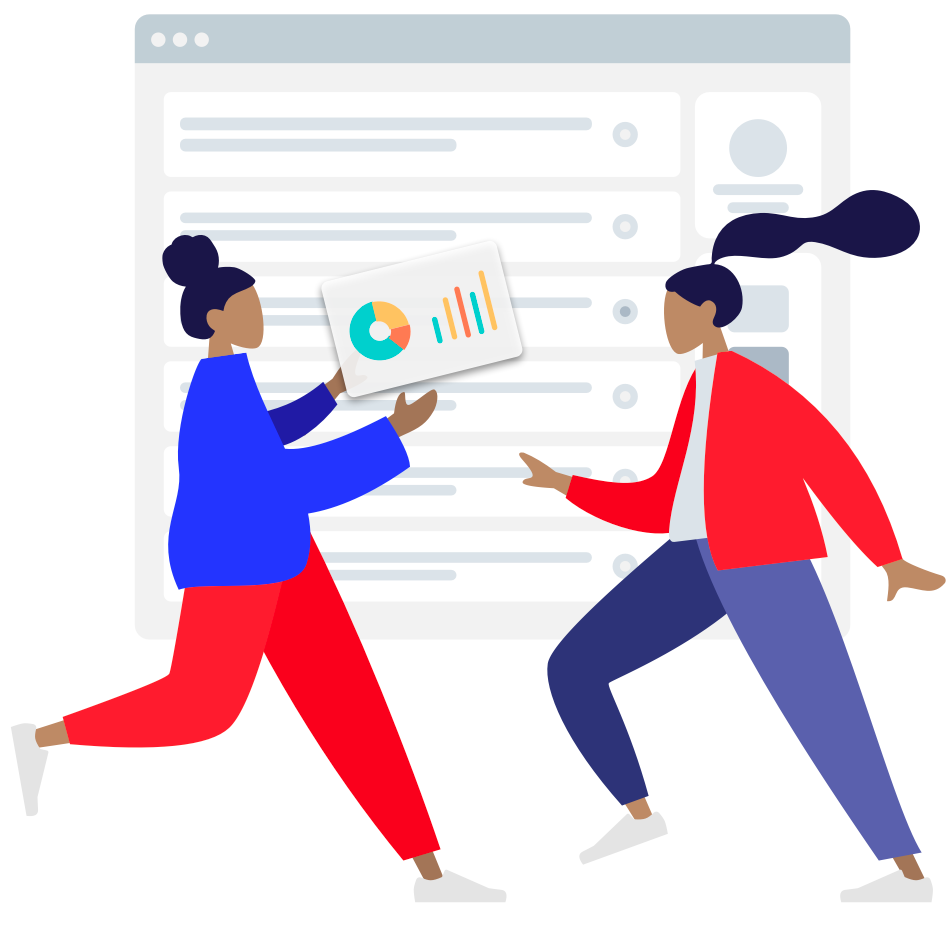
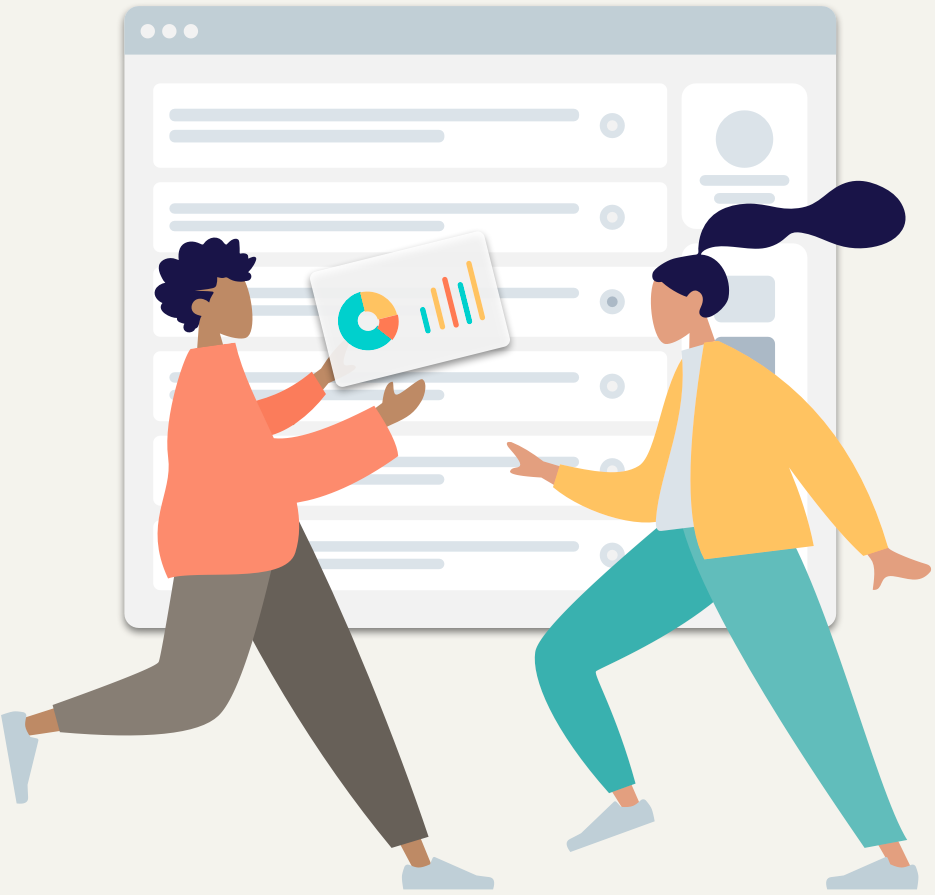
Landing Page styling

diff --git a/react-front-end/src/component/LandingPage.jsx b/react-front-end/src/component/LandingPage.jsx
@@ -4,6 +4,7 @@ import leaftopleft from '../assets/leaf-top-left.png';
 import leaftopright from '../assets/leaf-top-right.png';
 import leafbottomleft from '../assets/leaf-bottom-left.png';
 import leafbottomright from '../assets/leaf-bottom-right.png';
+import "../styles/LandingPage.css"
 
 import { Link, Switch, Route } from 'react-router-dom';
 
@@ -53,13 +54,13 @@ class LandingPage extends Component {
         : null;
     return (
       <Layout>
-        <Header className="header" style={{background: 'white', paddingLeft: 0, borderBottom: '1px solid #c3cfd7' }}>
+        <Header className="header" style={{background: '#66615a', paddingLeft: '20px', fontSize: '200%', fontWeight: '800', color: 'white', height: '100px'}}>
           Reflect
         </Header>
  {/*       <div style={{ float: 'left' }}>
           <img src={landingscene} alt="LandingScene" style={{ float: 'left' }} />
         </div>*/}
-        <div style={{background: 'white', height: '100%'}}>
+        <div style={{background: '#f4f3ee', height: '100%'}}>
           <div style={{ float: 'left', margin: "0 0 0 0",width: '100px' }}>
             <img src={leaftopleft} alt="LeafTopLeft" style={{width: '100%', height: 'auto'}} />
           </div>
@@ -84,11 +85,11 @@ class LandingPage extends Component {
                 <Input placeholder="Password" type="password" style={{ width: '265px', margin: "0 25px 0 0px"}}/>
               </Form.Item>
               <Checkbox style={{ padding: "0 20px 0 18px"}}> Remember me </Checkbox>
-              <a className="login-form-forgot" href=""> Forgot password </a>
+              <a className="login-form-forgot" href="" style={{ color: '#42d0ce'}}> Forgot password </a>
               <Form.Item {...buttonItemLayout} style={{ width: "100px", margin: "20px 0 20px 0" }}>
                 <Button type="primary" onClick={(event) => {this.props.action(event); }}>Submit</Button>
               </Form.Item>
-              <a href="" style={{ float: 'left', margin: "0 0 0 20px"}}>Or register now!</a>
+              <a href="" style={{ float: 'left', margin: "0 0 0 20px", color: '#42d0ce'}}>Or register now!</a>
             </Form>
           </Card>
         </div>

diff --git a/react-front-end/src/styles/LandingPage.css b/react-front-end/src/styles/LandingPage.css
@@ -1,0 +1,12 @@
+/*header.ant-layout-header  {
+  height: 100px;
+
+}*/
+
+.ant-btn-primary {
+  background: #42d0ce;
+  border: none;
+
+}
+
+
